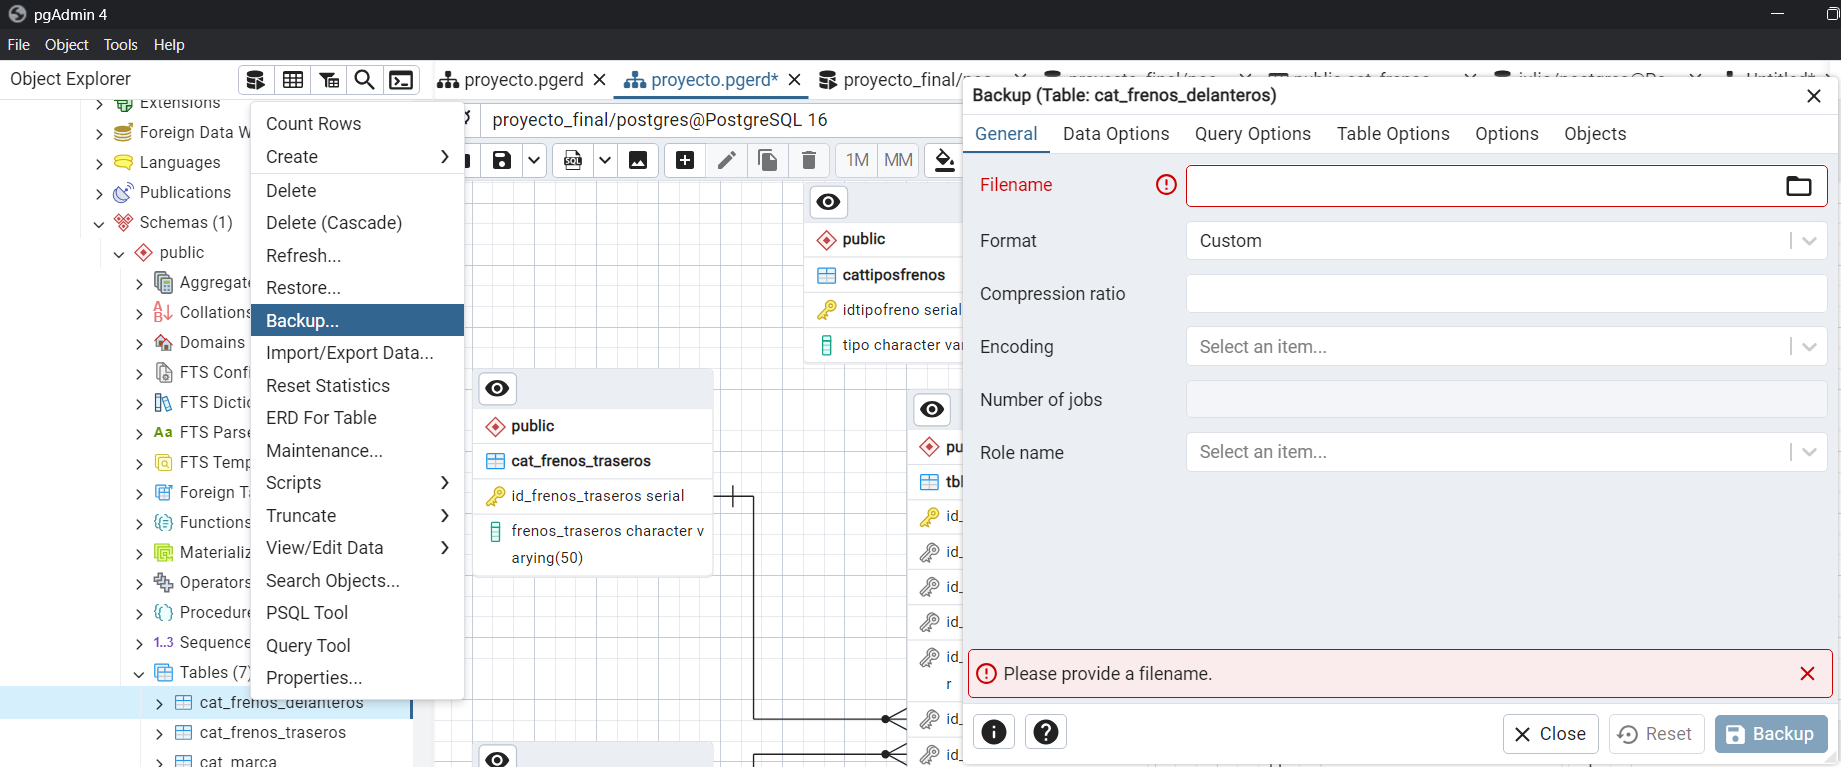
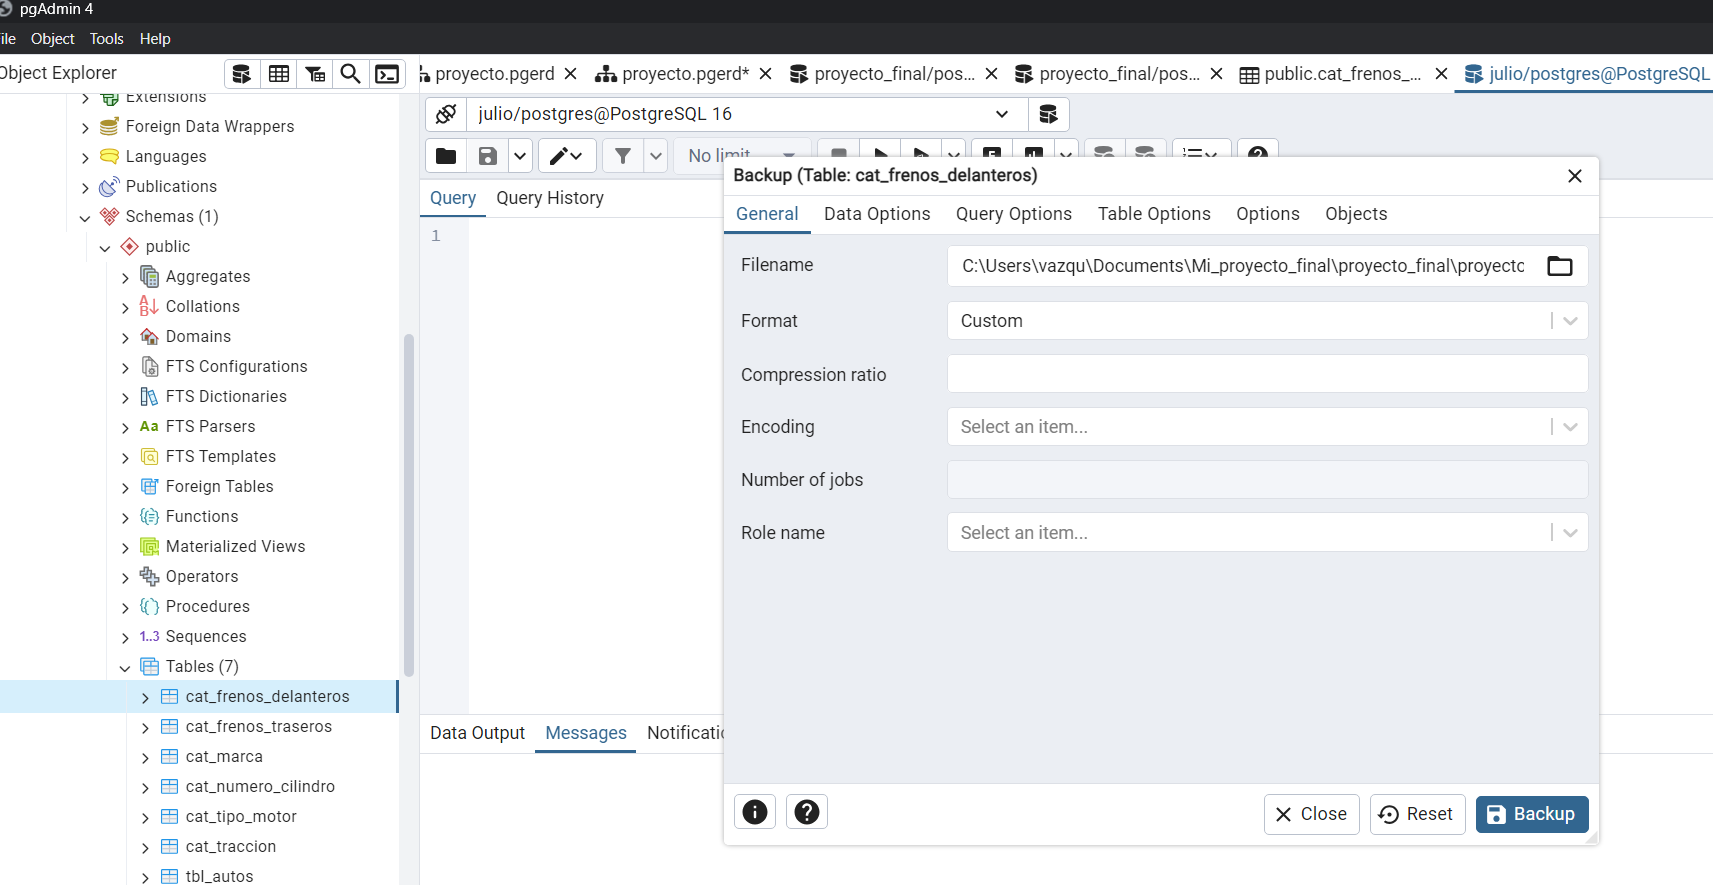
Proyecterht

diff --git a/README.md b/README.md
@@ -217,25 +217,24 @@ Creamos un usario, debemos estar conectados como super usario para poder dar pri
 
  ## Creando una copia de seguridad
 
- Crear y restaurar copias de seguridad en pgAdmin es una tarea esencial para la gestión de bases de datos PostgreSQL. Siguiendo los pasos descritos, puedes asegurar que tus datos estén protegidos y sean recuperables en caso de fallos o pérdida de datos.
+ Crear y restaurar copias de seguridad es una gestión de bases de datos, podemos asegurar los datos que esten protegidos y sean recuperables en caso de fallos o pérdida de datos.
 
-Ejemplo Visual Paso a Paso
-A continuación se describen los pasos con mayor detalle visual:
+Ejemplo Paso a Paso
+Se describen los pasos para mayor detalle:
 
 Paso 1: Abrir pgAdmin y Conectarse al Servidor
 
-![img](./imagenes/crear%20roles%20.png)
-
 Paso 2: Seleccionar la Base de Datos
-
-![img](./imagenes/crear%20una%20copia%20de%20seguridad%20backop.png)
 
 Paso 3: Abrir el Menú de Copia de Seguridad
 
+![img](./imagenes/crear%20una%20copia%20de%20seguridad%20backop.png)
+
 Paso 4: Configurar la Copia de Seguridad
 
-Paso 5: Ejecutar la Copia de Seguridad
+![img](./imagenes/PERMISOS%20PARA%20BACKUP.png)
 
+Paso 5: Ejecutar la Copia de Seguridad
 
 
 
